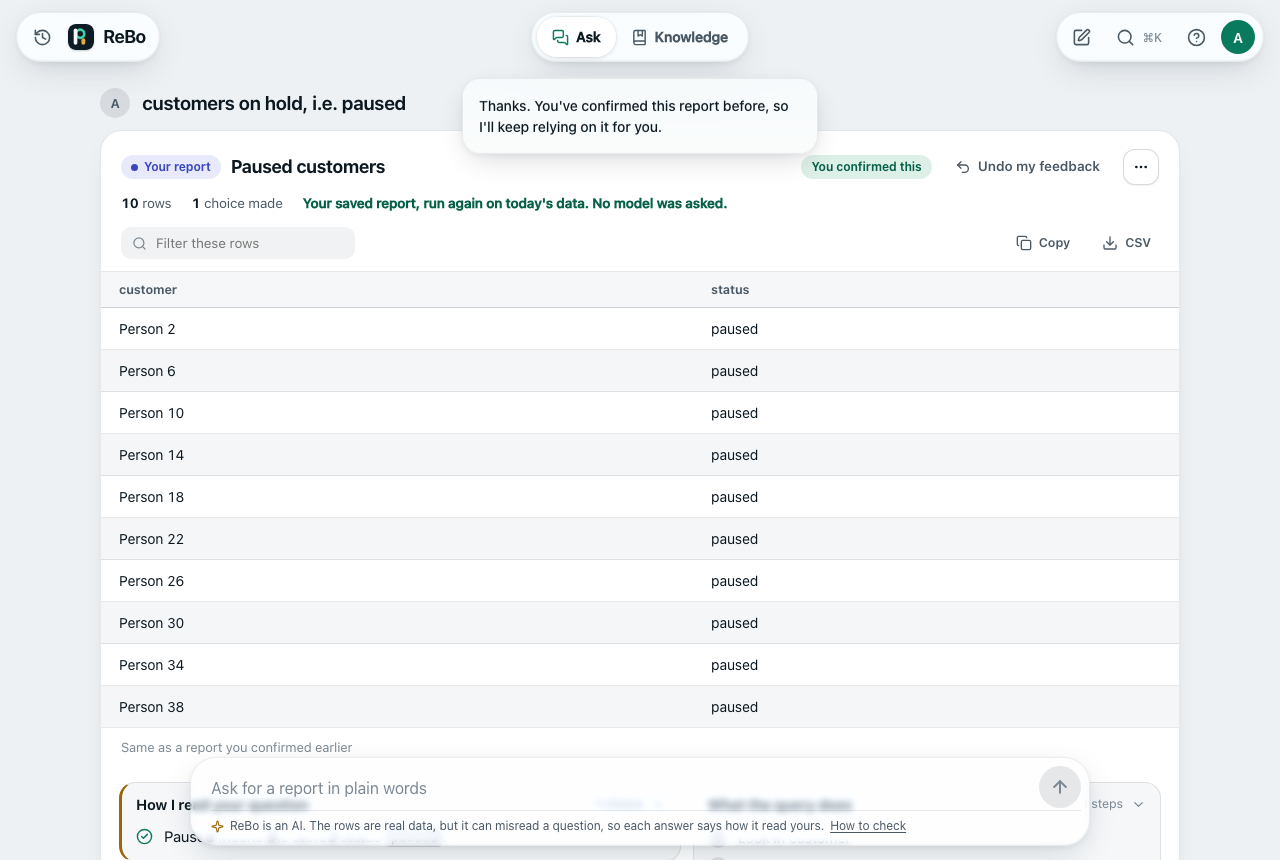
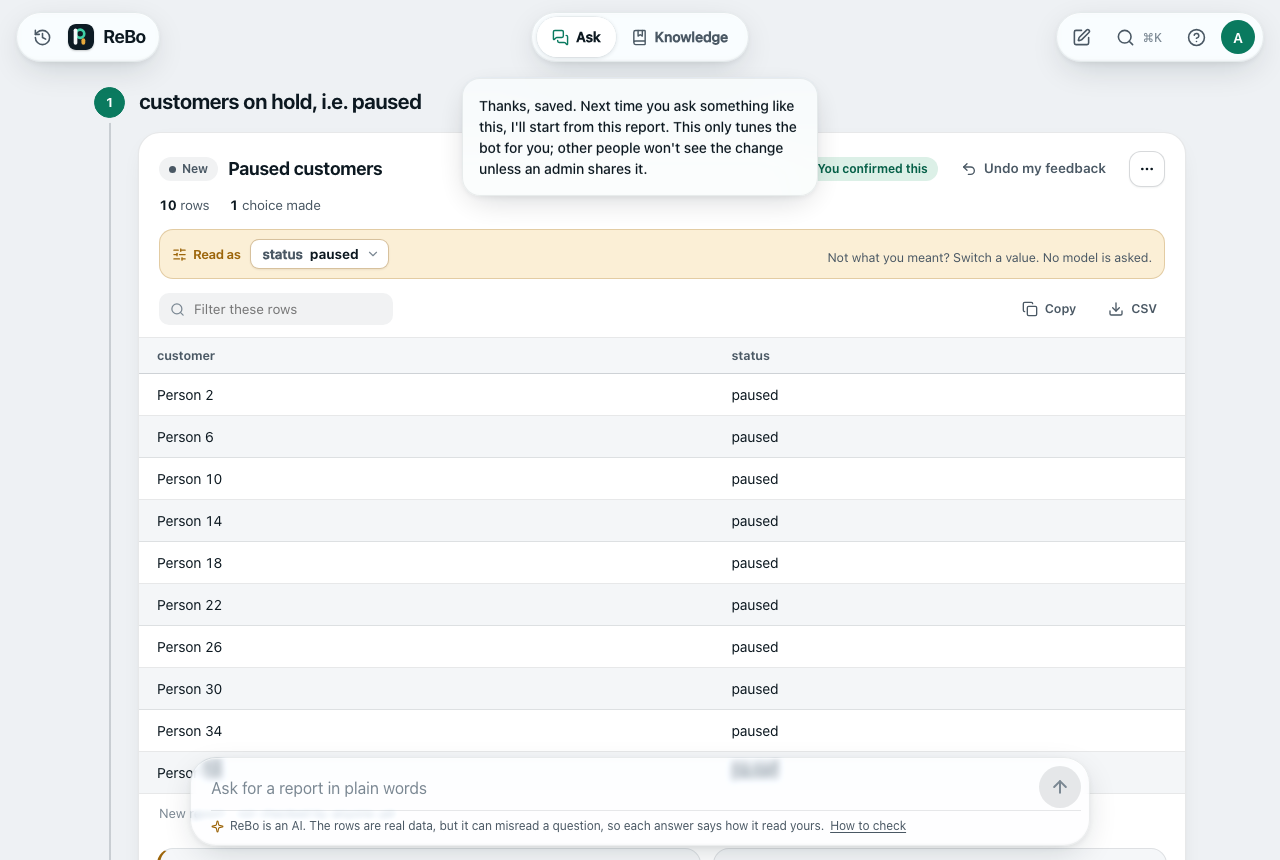
docs: screenshots of the new chat, handoff for the seventh pass

diff --git a/HANDOFF.md b/HANDOFF.md
@@ -36,6 +36,11 @@ also in git history; this file is the short version a new session reads first.
   per checked turn; no clear gain, kept off. Open: B-050 (skeleton similarity).
 - **Design v4 (2026-10-21d):** Liquid Glass navigation, island bar, You and Help pages, logo and brand
   (doc 25), scannable answers. Safari/Firefox rendering not checked on this machine.
+- **2026-10-21e (seventh pass):** row-level security (`database_role: "{user}"`, SET LOCAL ROLE, B-058);
+  "Read as" value switches at $0 (B-060); chat as a numbered ledger with figures and a live work trail;
+  charts only for measured comparisons (never ids); ask once, ask well (demo conversations 3/5 → 4/5);
+  cheaper agents measured, `models.decide` off, **Sonnet stays the default** (doc 20 §5b); doc 27 lists
+  what the model sees and everything tried and not adopted.
 - **Direction and rules:** `AGENTS.md`. Plan and gates: `docs/18-production-build.md`.
 
 ## 2. Measured facts (do not re-derive; re-measure only when a change could affect them)
@@ -118,3 +123,4 @@ on gold answers, not on row counts of unconfirmed answers.
 | 2026-10-21 | fourth pass (macOS) | B-048 (agent, merged, kept off); Liquid Glass design system with per-element lensing; logo and brand doc 25; You and Help pages; answer readability (facts line, row shading, filter, copy, reading first) | B-050; Safari/Firefox visual check |
 | 2026-10-21 | fifth pass (macOS) | internal pages redesigned; WebKit + Firefox (CI) tests; B-050 measured (kept off); B-052 caching: JMS $2.68 → $1.22; doc 26 assessment and the verified-parts idea, coverage test (JMS 42 % of reports composable) | B-055 join-and-entity library; B-053 cascade; B-054 tool budgets |
 | 2026-10-21 | sixth pass (macOS) | B-055 join library: no gain offline, not wired (join_path tie crash fixed); B-053 doubt cascade 8/12 $0.106 vs Sonnet 10/12 (Sonnet stays); B-054 compact describe −25 % tokens; B-057 fan-out probe (demo 2→7/10, JMS 50→58 %); B-058 cartesian trap (RLS [!]); B-059 `rebo eval --confirmed`; B-056 deferred; grain-check parent-id false alarm fixed. LLM spend this pass ≈ $1.5 | open: B-015/041/045/058-RLS need a person; B-056 deferred |
+| 2026-10-21 | seventh pass (macOS) | CI fixed (regression test needed a key); repo homepage cleared; B-058 RLS via SET LOCAL ROLE (tested on Postgres); B-060 Read as switches; chat redesign; chart rules; B-061 cheap models + doubt-gated decide (Luna 9/12 $0.03 demo, but JMS no saving; Sonnet stays); ask-once policy 3/5 → 4/5 conversations; doc 27. LLM spend ≈ $1.6 | larger validated gold set (B-015) to tell 9/12 from 11/12; tiered mode on a bigger schema |
